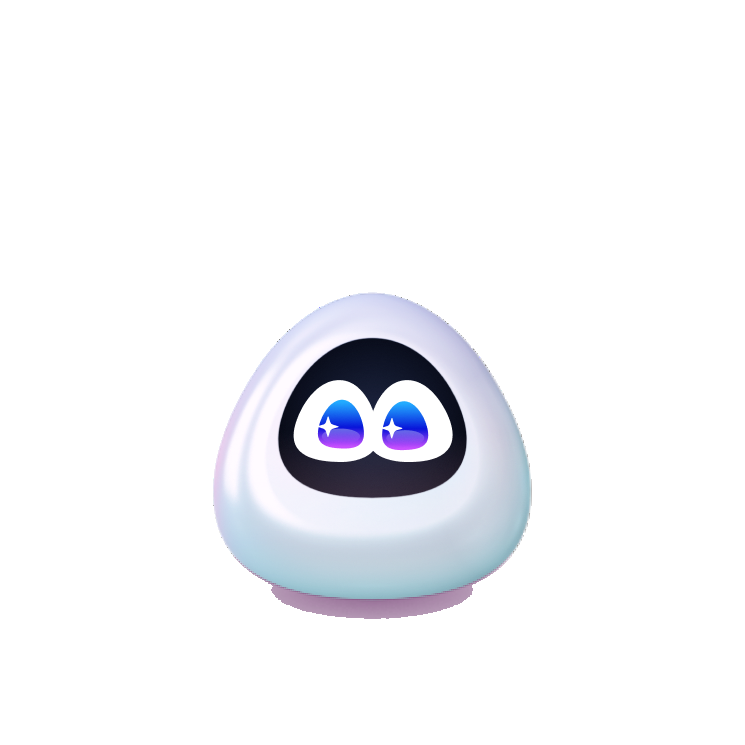
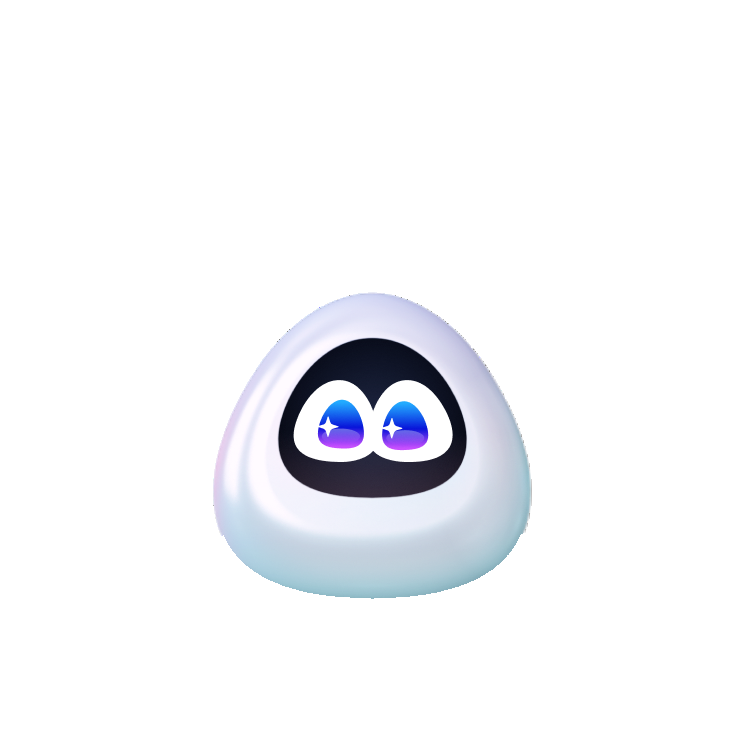
Mud spring: X-eyed throw, faster eruption, wobbly island, bigger bubbles
- Build a small X-eyed Migo by swapping the face texture onto the thrown sprite,
  so Migo is X-eyed the moment it is launched; throw and camera push now overlap
  into one continuous ~1.3s move with no pause.
- Island: barely moves at rest except an unsteady wobble; shakes push it farther
  with irregular drift and pauses.
- Bigger mud bubbles; bigger, thicker pop rings.
- Replace the hard baked Migo shadow with a soft blurred one.
- Parameter panel is open by default (?play starts with it closed).

diff --git a/mud_spring_demo/index.html b/mud_spring_demo/index.html
@@ -31,7 +31,10 @@
   .island { left: 60.1px; top: 504.9px; width: 262.2px; height: 93.2px; }
   .island-reflection { left: 60.1px; top: 583px; width: 262.2px; height: 75.3px; }
   .bg-calm { left: -90.5px; top: 0; width: 571.3px; height: 857px; }
-  .migo-calm { left: 8px; top: 247px; width: 373px; height: 373px; }      /* 含陰影與環境光，比對設計稿定位 */
+  .migo-calm { left: 8px; top: 247px; width: 373px; height: 373px; }      /* 含環境光，比對設計稿定位（硬邊陰影已去掉） */
+  /* Migo 的地面陰影：柔和、會暈開（位置照 Figma MIGO ground shadow） */
+  .soft-shadow { position: absolute; left: 103.4px; top: 507px; width: 183.4px; height: 55px; border-radius: 50%;
+    background: radial-gradient(ellipse at center, rgba(130,40,120,.36) 0%, rgba(130,40,120,.2) 42%, rgba(130,40,120,0) 72%); filter: blur(3px); }
 
   /* 第 2、3 張：噴發（同一張長圖，第 3 張是鏡頭推近） */
   #geyserScene, #resultScene { opacity: 0; }
@@ -135,6 +138,7 @@
       <div class="raft" id="raft">
         <img class="island-reflection" src="assets/island_reflection.png" alt="">
         <img class="island" src="assets/island.png" alt="">
+        <div class="soft-shadow"></div>
         <img class="migo-calm" id="migoCalm" src="assets/migo_calm.png" alt="Migo">
       </div>
       <canvas id="lakeFront"></canvas>
@@ -143,7 +147,7 @@
     <div class="scene" id="geyserScene">
       <div id="gcam"><img src="assets/bg_geyser.png" alt=""></div>
       <canvas id="geyserFx"></canvas>
-      <img id="dizzy" src="assets/migo_dizzy.png" alt="Migo">
+      <img id="dizzy" src="assets/migo_ko_small.png" alt="Migo">
       <img id="ko" src="assets/migo_ko_big.png" alt="Migo">
     </div>
     <!-- 第 4 張：結算（靜態） -->
@@ -190,8 +194,8 @@
 // ================= 可調參數 =================
 const P = {
   total:      { g: 'shake', v: 10,  min: 1,   max: 30,  step: 1,    label: '要搖幾下', restart: true },
-  driftMax:   { g: 'shake', v: 26,  min: 0,   max: 60,  step: 1,    label: '浮島左右飄動幅度 (px，越搖越大)' },
-  driftSec:   { g: 'shake', v: 6,   min: 2,   max: 14,  step: 0.5,  label: '浮島左右飄一趟 (秒，泥漿黏稠所以慢)' },
+  driftMax:   { g: 'shake', v: 38,  min: 0,   max: 80,  step: 1,    label: '搖晃時浮島被推遠的距離 (px)' },
+  tiltMax:    { g: 'shake', v: 4,   min: 0,   max: 15,  step: 0.5,  label: '浮島不穩的晃動角度 (°)' },
   bobAmp:     { g: 'shake', v: 3,   min: 0,   max: 12,  step: 0.5,  label: '浮島上下起伏 (px)' },
   rockKick:   { g: 'shake', v: 9,   min: 0,   max: 30,  step: 1,    label: '每搖一下浮島被推的力道' },
   steam:      { g: 'shake', v: 9,   min: 0,   max: 20,  step: 1,    label: '冒煙量（越搖越多）' },
@@ -200,10 +204,9 @@ const P = {
   screenShake:{ g: 'shake', v: 6,   min: 0,   max: 16,  step: 1,    label: '畫面震動 (px)' },
   rumbleSec:  { g: 'erupt', v: 1.4, min: 0.2, max: 4,   step: 0.1,  label: '最後一下後瘋狂震動 (秒)' },
   rumbleMax:  { g: 'erupt', v: 16,  min: 0,   max: 30,  step: 1,    label: '瘋狂震動最大幅度 (px)' },
-  flySec:     { g: 'erupt', v: 0.6, min: 0.2, max: 2,   step: 0.1,  label: 'Migo 被噴飛 (秒)' },
-  hold2Sec:   { g: 'erupt', v: 0.2, min: 0,   max: 3,   step: 0.1,  label: '噴飛後到推近前的停頓 (秒)' },
-  pushSec:    { g: 'erupt', v: 1.1, min: 0.3, max: 3,   step: 0.1,  label: '鏡頭推近 (秒)' },
-  hold3Sec:   { g: 'erupt', v: 1.2, min: 0.2, max: 4,   step: 0.1,  label: '推近後停留 (秒)' },
+  flySec:     { g: 'erupt', v: 0.5, min: 0.2, max: 2,   step: 0.05, label: 'Migo 被噴飛 (秒)' },
+  pushSec:    { g: 'erupt', v: 0.75, min: 0.3, max: 3,  step: 0.05, label: '鏡頭推近 (秒，跟噴飛重疊)' },
+  hold3Sec:   { g: 'erupt', v: 0.6, min: 0.1, max: 4,   step: 0.1,  label: '推近後停留 (秒)' },
 };
 const DEFAULTS = Object.fromEntries(Object.entries(P).map(([k, o]) => [k, o.v]));
 for (const [k, o] of Object.entries(P)) {
@@ -271,7 +274,7 @@ function spawnMud(big) {
     const x = 15 + Math.random() * 360, y = 495 + Math.random() * 300;
     // 大小有變化：大部分小顆，偶爾來一顆大的（大的鼓更久）
     const roll = Math.random();
-    const base = roll < 0.12 ? 34 + Math.random() * 22 : roll < 0.4 ? 18 + Math.random() * 12 : 6 + Math.random() * 10;
+    const base = roll < 0.15 ? 50 + Math.random() * 30 : roll < 0.45 ? 28 + Math.random() * 18 : 11 + Math.random() * 14;   // 整體再大一點
     const s = depth(y), rMax = base * (big ? 1.15 : 0.85) * s;
     // 整顆泡泡的底部都要在泥漿裡、也不要在浮島正下方
     if (!inLake(x - rMax, y) || !inLake(x + rMax, y) || !inLake(x, y + rMax * 0.3) || !inLake(x, y - 4)) continue;
@@ -295,7 +298,7 @@ function spawnSteam() {
 }
 function popMud(m) {
   // 濃稠的破法：一圈粗粗的泥漿環慢慢擴散，濺起少量、慢、不透明的泥漿團
-  rings.push({ x: m.x, y: m.y, r: m.rMax, s: m.s, life: 1.0, max: 1.0, thick: true });
+  rings.push({ x: m.x, y: m.y, r: m.rMax * 1.15, s: m.s, life: 1.4, max: 1.4, thick: true });   // 大圈、慢慢擴散
   const n = m.rMax > 14 ? 3 + (Math.random() * 2 | 0) : 1 + (Math.random() * 2 | 0);
   for (let i = 0; i < n; i++) {
     const a = -Math.PI / 2 + (Math.random() - 0.5) * 1.4, sp = (45 + Math.random() * 55) * Math.sqrt(m.s) * (0.6 + m.rMax / 40);
@@ -376,8 +379,8 @@ function drawLake() {
   for (const r of rings) {
     const k = r.life / (r.max || 0.6);
     if (r.thick) {                                       // 濃稠的泥漿環：粗、慢、帶亮邊
-      const rr = r.r * (1 + (1 - k) * 1.3);
-      back.strokeStyle = `rgba(150,232,228,${0.85 * k})`; back.lineWidth = (2 + 5 * k) * r.s;
+      const rr = r.r * (1 + (1 - k) * 2.1);
+      back.strokeStyle = `rgba(150,232,228,${0.85 * k})`; back.lineWidth = (3.5 + 8 * k) * r.s;
       back.beginPath(); back.ellipse(r.x, r.y, rr, rr * 0.28, 0, 0, TAU); back.stroke();
       back.strokeStyle = `rgba(240,255,255,${0.45 * k})`; back.lineWidth = 1;
       back.beginPath(); back.ellipse(r.x, r.y - 1.5 * r.s, rr, rr * 0.28, 0, Math.PI, TAU); back.stroke();
@@ -401,6 +404,8 @@ function shake() {
   S.count--;
   const p = progress();
   S.pushV += (Math.random() < 0.5 ? -1 : 1) * P.rockKick.v * (0.6 + p) * 5;   // 浮島被推往左或右
+  S.rotV = (S.rotV || 0) + (Math.random() < 0.5 ? -1 : 1) * (35 + Math.random() * 35) * (0.6 + p);   // 被搖得歪一下
+  S.nextMove = 0;                                  // 馬上換一個新的飄動目標
   S.dipV += 25;
   S.energy = 1;
   S.shakeT = 0.35; S.shakeK = P.screenShake.v;
@@ -424,7 +429,7 @@ function setCam(c) {
 
 function restart() {
   setPhase('lake');
-  Object.assign(S, { count: P.total.v, push: 0, pushV: 0, dip: 0, dipV: 0, energy: 0, shakeT: 0, rx: 0, ry: 0 });
+  Object.assign(S, { count: P.total.v, push: 0, pushV: 0, dip: 0, dipV: 0, energy: 0, shakeT: 0, rx: 0, ry: 0, rot: 0, rotV: 0, target: 0, nextMove: 0 });
   muds.length = rings.length = drops.length = steams.length = 0;
   numEl.textContent = 0;
   hud.style.opacity = 1;
@@ -498,44 +503,49 @@ function step(dt) {
     S.steamAcc = (S.steamAcc || 0) + dt * P.steam.v * (0.5 + 1.5 * p + (ph === 'rumble' ? 2 : 0));
     while (S.steamAcc > 1) { S.steamAcc--; spawnSteam(); }
 
-    // 浮島：不傾斜，只在泥漿上左右慢慢飄、帶一點上下起伏（泥漿黏稠，動作慢）
-    const w = TAU / P.driftSec.v;
-    const amp = P.driftMax.v * (0.25 + 0.75 * p);
-    const drift = Math.sin(S.t * w) * amp + Math.sin(S.t * w * 1.7 + 1.3) * amp * 0.25;
-    S.pushV += (-S.push * 3 - S.pushV * 2.2) * dt;       // 被推之後慢慢回來
+    // 浮島：平常幾乎在原地、只有不穩地晃；被搖的時候才會被推著飄遠，飄的方向和停頓每次都不一樣
+    if (ph === 'rumble') S.energy = 1;
+    S.energy *= Math.exp(-dt * 0.45);                    // 搖完之後慢慢平靜下來
+    if ((S.nextMove = (S.nextMove ?? 0) - dt) <= 0) {
+      S.nextMove = 1.2 + Math.random() * 2.6;
+      S.target = Math.random() < 0.35 ? S.push            // 有時停著不動
+        : (Math.random() * 2 - 1) * P.driftMax.v * (0.1 + 0.9 * S.energy);
+    }
+    S.pushV += ((S.target ?? 0) - S.push) * 1.5 * dt - S.pushV * 2.0 * dt;   // 泥漿黏稠，慢慢飄過去
     S.push += S.pushV * dt;
+    S.push = Math.max(-P.driftMax.v * 1.3, Math.min(P.driftMax.v * 1.3, S.push));
     S.dipV += (-S.dip * 12 - S.dipV * 3) * dt; S.dip += S.dipV * dt;
-    S.rx = drift + S.push;
-    S.ry = Math.sin(S.t * w * 1.6) * P.bobAmp.v * (0.7 + 0.6 * p) + S.dip * 0.15;
-    raft.style.transform = `translate(${S.rx.toFixed(2)}px, ${S.ry.toFixed(2)}px)`;
+    // 不穩的晃動：幾個不同頻率疊在一起，越搖越晃
+    S.rotV = (S.rotV || 0) + (-(S.rot || 0) * 18 - S.rotV * 2.6) * dt; S.rot = (S.rot || 0) + S.rotV * dt;
+    const wob = (Math.sin(S.t * 2.1 + 0.3) * 0.55 + Math.sin(S.t * 3.3 + 1.1) * 0.3 + Math.sin(S.t * 5.3) * 0.15)
+      * P.tiltMax.v * (0.35 + 0.65 * S.energy + 0.3 * p);
+    S.rx = S.push;
+    S.ry = Math.sin(S.t * 1.9) * P.bobAmp.v * (0.5 + 0.8 * S.energy) + S.dip * 0.15;
+    raft.style.transform = `translate(${S.rx.toFixed(2)}px, ${S.ry.toFixed(2)}px) rotate(${(wob + S.rot).toFixed(2)}deg)`;
     drawLake();
   }
 
-  else if (ph === 'fly') {                    // 第 2 張：噴發，Migo 被噴飛到設計稿位置
-    flash.style.opacity = (0.9 * (1 - clamp01(S.pt / 0.35))).toFixed(3);
-    const k = clamp01(S.pt / P.flySec.v), e = easeOutBack(k);
-    // 從浮島位置（畫面下方）飛到 (32,72)
-    const sx = lerp(ISLAND.x - 132, 0, e), sy = lerp(ISLAND.y - 172, 0, e);
-    dizzy.style.transform = `translate(${sx.toFixed(1)}px, ${sy.toFixed(1)}px) rotate(${lerp(-200, 0, easeOutCubic(k)).toFixed(1)}deg) scale(${lerp(0.6, 1, easeOutCubic(k)).toFixed(3)})`;
-    S.shakeT = 0.35; S.shakeK = 12 * (1 - k);
-    geyserSpray(dt, 1 - k * 0.6);
-    if (k >= 1) setPhase('hold2');
-  } else if (ph === 'hold2') {                // 停在第 2 張（靜止）
-    S.shakeT = 0; gfx.clearRect(0, 0, W, H);
-    if (S.pt >= P.hold2Sec.v) setPhase('push');
-  } else if (ph === 'push') {
-    // 第 2 → 3 張是同一個連續鏡頭：鏡頭推近，暈眼 Migo 跟著放大移動到打叉眼 Migo 的位置，
-    // 兩張完全疊在一起時才交換，不會有換圖的感覺
-    const k = clamp01(S.pt / P.pushSec.v), e = easeInOut(k);
-    setCam({ x: lerp(CAM2.x, CAM3.x, e), y: lerp(CAM2.y, CAM3.y, e), w: lerp(CAM2.w, CAM3.w, e) });
-    // 暈眼框 (32,72) 200×199，中心 (132,171.5)；打叉眼整顆 (-96,62) 400×399，中心 (104,261.5)，大 2 倍
-    const tx = lerp(0, MORPH.dx, e), ty = lerp(0, MORPH.dy, e), sc = lerp(1, MORPH.s, e);
-    dizzy.style.transform = `translate(${tx.toFixed(1)}px, ${ty.toFixed(1)}px) scale(${sc.toFixed(4)})`;
+  else if (ph === 'fly') {
+    // 第 2 → 3 張一個連續動作：Migo 一被拋飛就是打叉眼，飛到半空時鏡頭已經開始推近，中間不停頓
+    flash.style.opacity = (0.9 * (1 - clamp01(S.pt / 0.3))).toFixed(3);
+    const F = P.flySec.v, pStart = F * 0.55, Pd = P.pushSec.v;
+    const kf = clamp01(S.pt / F), ef = easeOutCubic(kf);
+    const kp = clamp01((S.pt - pStart) / Pd), ep = easeInOut(kp);
+    // 噴飛：從浮島位置（畫面下方）轉著飛到 (32,72)
+    const sx = lerp(ISLAND.x - 132, 0, ef), sy = lerp(ISLAND.y - 172, 0, ef);
+    const rot = lerp(-220, 0, ef), fs = lerp(0.55, 1, ef);
+    // 推近：鏡頭推到第 3 張，Migo 跟著放大移到大特寫的位置
+    setCam({ x: lerp(CAM2.x, CAM3.x, ep), y: lerp(CAM2.y, CAM3.y, ep), w: lerp(CAM2.w, CAM3.w, ep) });
+    const tx = lerp(0, MORPH.dx, ep), ty = lerp(0, MORPH.dy, ep), sc = lerp(1, MORPH.s, ep);
+    dizzy.style.transform = `translate(${(sx + tx).toFixed(1)}px, ${(sy + ty).toFixed(1)}px) rotate(${rot.toFixed(1)}deg) scale(${(fs * sc).toFixed(4)})`;
     ko.style.transform = `translate(${(tx - MORPH.dx).toFixed(1)}px, ${(ty - MORPH.dy).toFixed(1)}px) scale(${(sc / MORPH.s).toFixed(4)})`;
-    const x = clamp01((k - 0.55) / 0.3);         // 後段、兩張重疊時才交換
+    // 小張和大特寫都是打叉眼，最後完全重疊時才交換（大特寫畫質比較好）
+    const x = clamp01((kp - 0.8) / 0.2);
     ko.style.opacity = x.toFixed(3);
     dizzy.style.opacity = (1 - x).toFixed(3);
-    if (k >= 1) setPhase('hold3');
+    S.shakeT = 0.35; S.shakeK = 12 * (1 - kf);
+    if (kp < 0.7) geyserSpray(dt, 1 - kf * 0.6); else gfx.clearRect(0, 0, W, H);
+    if (kp >= 1) setPhase('hold3');
   } else if (ph === 'hold3') {
     if (S.pt >= P.hold3Sec.v) {
       scene('geyser', 0); scene('result', 1); resultScene.classList.add('on');
@@ -639,7 +649,7 @@ restart();
   phone.appendChild(hit);
   window.addEventListener('resize', fit);
   window.addEventListener('load', fit);
-  setOpen(new URLSearchParams(location.search).has('dev'));
+  setOpen(!new URLSearchParams(location.search).has('play'));   // 預設打開；網址加 ?play 則先收起來
 })();
 </script>
 </body>

diff --git a/migo_float_test/index.html b/migo_float_test/index.html
@@ -692,7 +692,7 @@ restart();
   phone.appendChild(hit);
   window.addEventListener('resize', fit);
   window.addEventListener('load', fit);
-  setOpen(new URLSearchParams(location.search).has('dev'));
+  setOpen(!new URLSearchParams(location.search).has('play'));   // 預設打開；網址加 ?play 則先收起來
 })();
 </script>
 </body>
